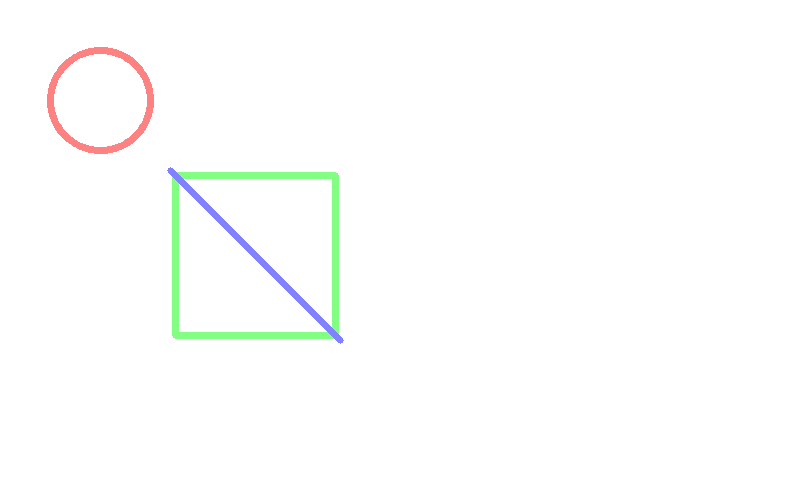
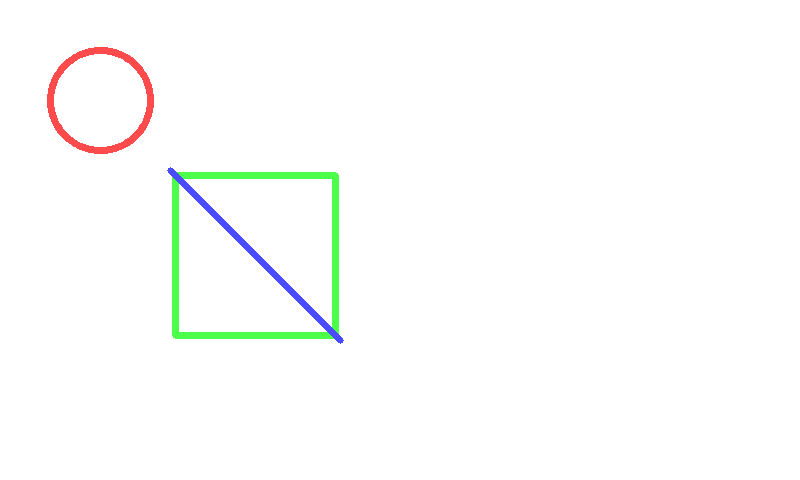
a

Changed region(s): [[0.1875, 0.3438, 0.4375, 0.7188], [0.0312, 0.0938, 0.2188, 0.3438], [0.2812, 0.4688, 0.375, 0.625]]

diff --git a/opencvDraw.py b/opencvDraw.py
@@ -9,9 +9,9 @@ layer3 = np.zeros((480, 800, 4))
 #draw a red circle on the first "layer",
 #a green rectangle on the second "layer",
 #a blue line on the third "layer"
-red_color = (0, 0, 255, 125)
-green_color = (0, 255, 0, 125)
-blue_color = (255, 0, 0, 125)
+red_color = (0, 0, 255, 180)
+green_color = (0, 255, 0, 180)
+blue_color = (255, 0, 0, 180)
 cv2.circle(layer1, (100, 100), 50, red_color, 5)
 cv2.rectangle(layer2, (175, 175), (335, 335), green_color, 5)
 cv2.line(layer3, (170, 170), (340, 340), blue_color, 5)
